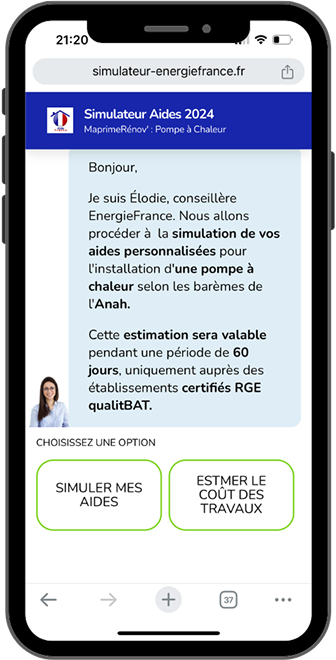
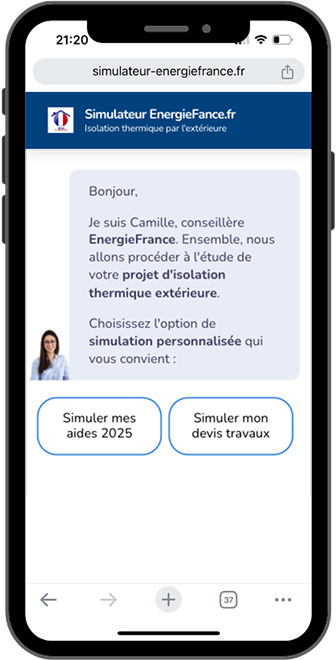
ite mais partenaire encore pac

diff --git a/IteVersion/index.html b/IteVersion/index.html
@@ -15,7 +15,7 @@
 <body>
     <header id="headerTp">
         <div class="header-text">
-            <p>Jusqu'à 11 500€ d'aides pour votre pompe à chaleur</p>
+            <p>Jusqu'à 11 500€ d'aides sur l'isolation thermique extérieure</p>
         </div>
         <div class="header">
             <div class="EnergieFrance">
@@ -42,10 +42,16 @@
         <h1>Simuler le montant de mes aides financières 2025</h1>
         <p>Gratuit et sans engagement</p>
         <div class="landbotContainer">
-            <script SameSite="None; Secure"  type="module" src="https://cdn.landbot.io/landbot-3/landbot-3.0.0.mjs"></script>
+            <!-- <script SameSite="None; Secure"  type="module" src="https://cdn.landbot.io/landbot-3/landbot-3.0.0.mjs"></script>
             <div id="myLandbot"></div>
             <script type="module">
             var myLandbot = new Landbot.Container({container: '#myLandbot', configUrl: 'https://storage.googleapis.com/landbot.pro/v3/H-2830804-MX984256PSPST97M/index.json',});
+            </script> -->
+
+            <script SameSite="None; Secure"  type="module" src="https://cdn.landbot.io/landbot-3/landbot-3.0.0.mjs"></script>
+                <div id="myLandbot"></div>
+                <script type="module">
+                var myLandbot = new Landbot.Container({container: '#myLandbot', configUrl: 'https://storage.googleapis.com/landbot.pro/v3/H-2844934-Z8FU58AMI7B3DBST/index.json',});
             </script>
         </div>
     </div>
@@ -53,7 +59,7 @@
     <div class="SectionText">
         <div>
             <h3 class="fade-text">Bénéficiez de l’augmentation des <span class="highlight">aides gouvernementales 2025</span></h3>
-            <p class="fade-text">En 2024, plus de <span class="bold">726 400 ménages</span> ont bénéficié des aides de l'État pour l’installation d’une pompe à chaleur.
+            <p class="fade-text">En 2024, plus de <span class="bold">90 000 ménages</span> ont bénéficié des aides de l'État pour des travaux isolation thermique extérieure.
                 Grâce aux subventions de l’État, jusqu'à 100% des frais d’installation sont pris en charge, et cette aide est prolongée jusqu’à fin 2025. <br>
                 Bénéficiez d’une <span class="bold">assistance gratuite</span> avec notre simulateur pour estimer vos gains et garantir l'obtention des primes avant le début des travaux.</p>
         </div>
@@ -137,17 +143,17 @@
     </div>
 
     <div class="banner">
-        <img src="./assets/banner.jpg" alt="banner">
+        <img src="./assets/Provence_Maisons_LABET_0.jpg" alt="banner">
     </div>
 
     <div class="avis">
         <div class="avisContainer fade-text">
-            <p>“J’ai simplement rempli un formulaire, deux semaines plus tard, ma pompe à chaleur est installée, et je n’ai rien eu à payer ! Ma maison a maintenant un <span class="bold">meilleur confort acoustique et thermique qui améliore ma qualité de vie</span> au quotidien.”</p>
+            <p>“J’ai simplement rempli un formulaire, et deux semaines plus tard, mon isolation thermique extérieure était en place, sans aucun frais à ma charge ! Ma maison bénéficie désormais d’un <span class="bold">meilleur confort acoustique et thermique qui améliore ma qualité de vie</span> au quotidien.”</p>
             <div class="avisContainerFlexbox">
                     <img src="./assets/man-having-video-call-with-his-family 1.png" alt="photoProfil">
                 <div>
-                    <h6>Maxence D.</h6>
-                    <p>paysagiste</p>
+                    <h6>Remy G.</h6>
+                    <p>spécialiste auto</p>
                 </div>
             </div>
         </div>
@@ -159,7 +165,7 @@
                 <h2>Connaître le montant des aides d’État devient <span class="highlight">simple en 2025</span></h2>
                 <p>Pour vous simplifier la vie, nous prenons en charge toutes les démarches liées à votre dossier d’aide, du début à la fin. Vous bénéficiez d’un accompagnement clair, sécurisé et 100 % transparent. <br>
                     Lancez votre demande en ligne et découvrez en quelques clics vos droits à la subvention !</p>
-                <a href="#headerTp">Simuler mes aides</a>
+                <a href="https://landbot.pro/v3/H-2844934-Z8FU58AMI7B3DBST/index.html" target="_blank">Simuler mes aides</a>
                 <p class="miniTxt">Gratuit, en moins de 2 minutes</p>
             </div>
             <img src="./assets/phone.png" alt="phone">
@@ -177,7 +183,7 @@
                 <p>De plus value sur votre bien</p>
             </div>
             <div>
-                <h3>80%</h3>
+                <h3>60%</h3>
                 <p>D'économie</p>
             </div>
         </div>
@@ -185,18 +191,18 @@
 
     <div class="aides">
         <div class="aidesContainer">
-            <h2 class="fade-text">Installez une pompe à chaleur, faites des économies, <span class="highlight">augmentez <br> la valeur de votre bien</span></h2>
+            <h2 class="fade-text">L'isolation thermique extérieure, faites des économies, <span class="highlight">augmentez <br> la valeur de votre bien</span></h2>
             <div class="bar fade-text"></div>
             <div class="aidesFlexboxContainer">
                 <div class="aidestextContainer slide slideLeft">
-                    <h3>L’installation d’une pompe à chaleur désormais <br>
+                    <h3>L'isolation thermique extérieure désormais <br>
                         <span class="highlight">fiancé par l’Etat !</span>
                     </h3>
                     <div class="bar1"></div>
-                    <p>Le gouvernement met en place un programme pour aider les propriétaires, en particulier ceux chauffés au gaz ou au fioul, à passer à la pompe à chaleur air-eau grâce à des aides financières. <br>
-                        Cette transition permet de réduire jusqu’à 70 % de la facture énergétique tout en limitant l'empreinte carbone. <br>
+                    <p>Le gouvernement met en place un programme pour aider les propriétaires, en particulier ceux dont l’isolation est vieillissante, à améliorer l’isolation thermique extérieure (ITE) grâce à des aides financières.<br>
+                        Cette rénovation permet de réduire jusqu’à 60 % des pertes de chaleur, d’améliorer le confort thermique et acoustique, et de réaliser d’importantes économies d’énergie tout en limitant l'empreinte carbone.<br>
                         Le plus avantageux ? <br>
-                        Les nouvelles subventions couvrent l’installation, évitant ainsi toute avance de frais pour les bénéficiaires.</p>
+                        Les nouvelles subventions couvrent une grande partie des travaux, évitant ainsi toute avance de frais pour les bénéficiaires.</p>
                 </div>
                 <div class="aidesVideoContainer slide slideRight">
                     <iframe 
@@ -228,13 +234,13 @@
     <div class="pompeChaleur">
         <div class="aidesFlexboxContainer">
             <div class="aidestextContainer slide slideRight">
-                <h3 class="fade-text">Comment fonctionne une <span class="highlight">Pompe à chaleur ?</span></h3>
+                <h3 class="fade-text">C'est quoi <span class="highlight">l'isolation thermique extérieure</span></h3>
                 <div class="bar1 fade-text"></div>
-                <p>Une pompe à chaleur (PAC) est un système de chauffage et de climatisation qui utilise les énergies renouvelables présentes dans l’air, l’eau ou le sol pour chauffer ou rafraîchir votre logement. Son principe repose sur un cycle thermodynamique qui capte les calories gratuites de l’environnement pour les transformer en chaleur utilisable à l’intérieur de votre habitation. Investir dans une pompe à chaleur, c’est choisir une solution performante, durable et respectueuse de l’environnement pour un logement plus confortable et économique.</p>
+                <p>L’isolation thermique extérieure (ITE) est une solution performante qui consiste à remplacer l’isolation vieillissante de votre logement par une isolation plus moderne et efficace. Cette amélioration permet de réduire les déperditions de chaleur en hiver et de maintenir la fraîcheur en été, garantissant ainsi un meilleur rendement énergétique. Grâce à l’ITE, votre habitation bénéficie d’un confort thermique et acoustique optimisé, tout en réduisant vos consommations d’énergie. Investir dans l’ITE, c’est choisir une solution durable, respectueuse de l’environnement et valorisant votre bien immobilier.</p>
             </div>
             <div class="aidesVideoContainer slide slideLeft">
                 <iframe 
-                    src="https://www.youtube.com/embed/4vk3iaOlLCM" 
+                    src="https://www.youtube.com/embed/WP4jCKJ-6-o" 
                     title="YouTube video player"
                     frameborder="0"
                     allow="accelerometer; autoplay; clipboard-write; encrypted-media; gyroscope; picture-in-picture"
@@ -260,8 +266,8 @@
 
     <section class="section2">
         <div class="container fade-text">
-            <h2 class="title">Montants des <span class="highlight">aides financières</span> pour l’installation d’une <span class="highlight">pompe à chaleur</span></h2>
-            <p>Ce tableau présente les montants des aides financières disponibles pour l’installation de pompes à chaleur en fonction des critères d’éligibilité. Ces informations vous aideront à mieux comprendre les aides auxquelles vous pouvez prétendre.</p>
+            <h2 class="title">Montants des <span class="highlight">aides financières</span> pour <span class="highlight">l'isolation thermique extérieure</span></h2>
+            <p>Ce tableau présente les montants des aides financières disponibles pour l'ITE en fonction des critères d’éligibilité. Ces informations vous aideront à mieux comprendre les aides auxquelles vous pouvez prétendre.</p>
 
             <div class="AvisBar"></div>
 
